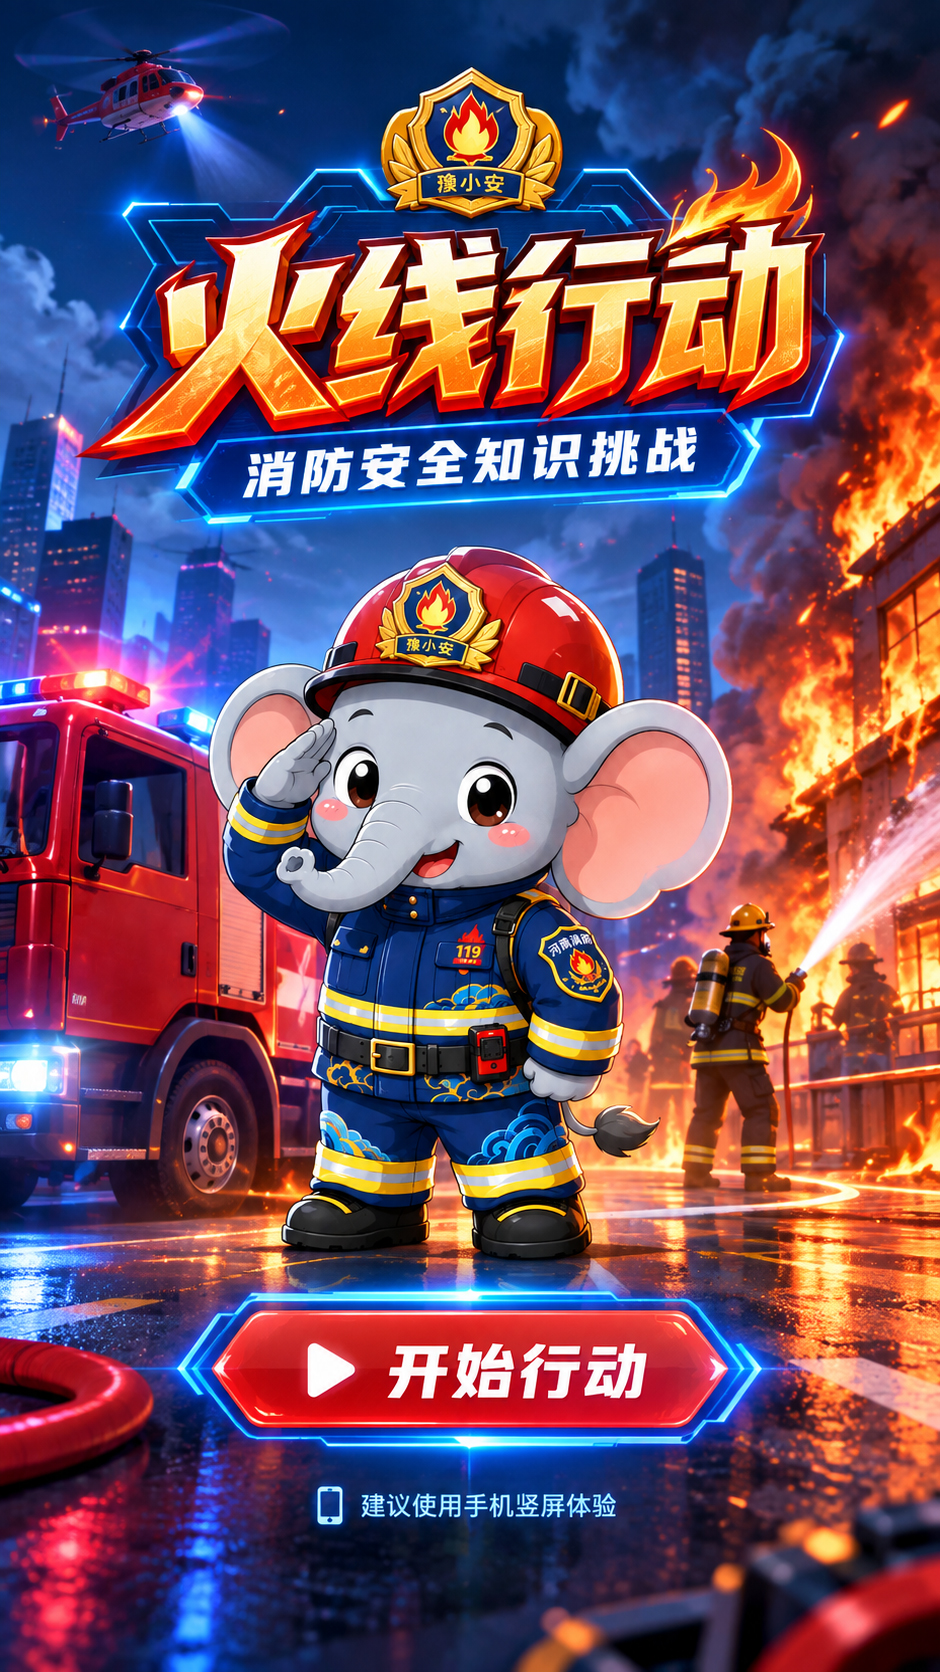
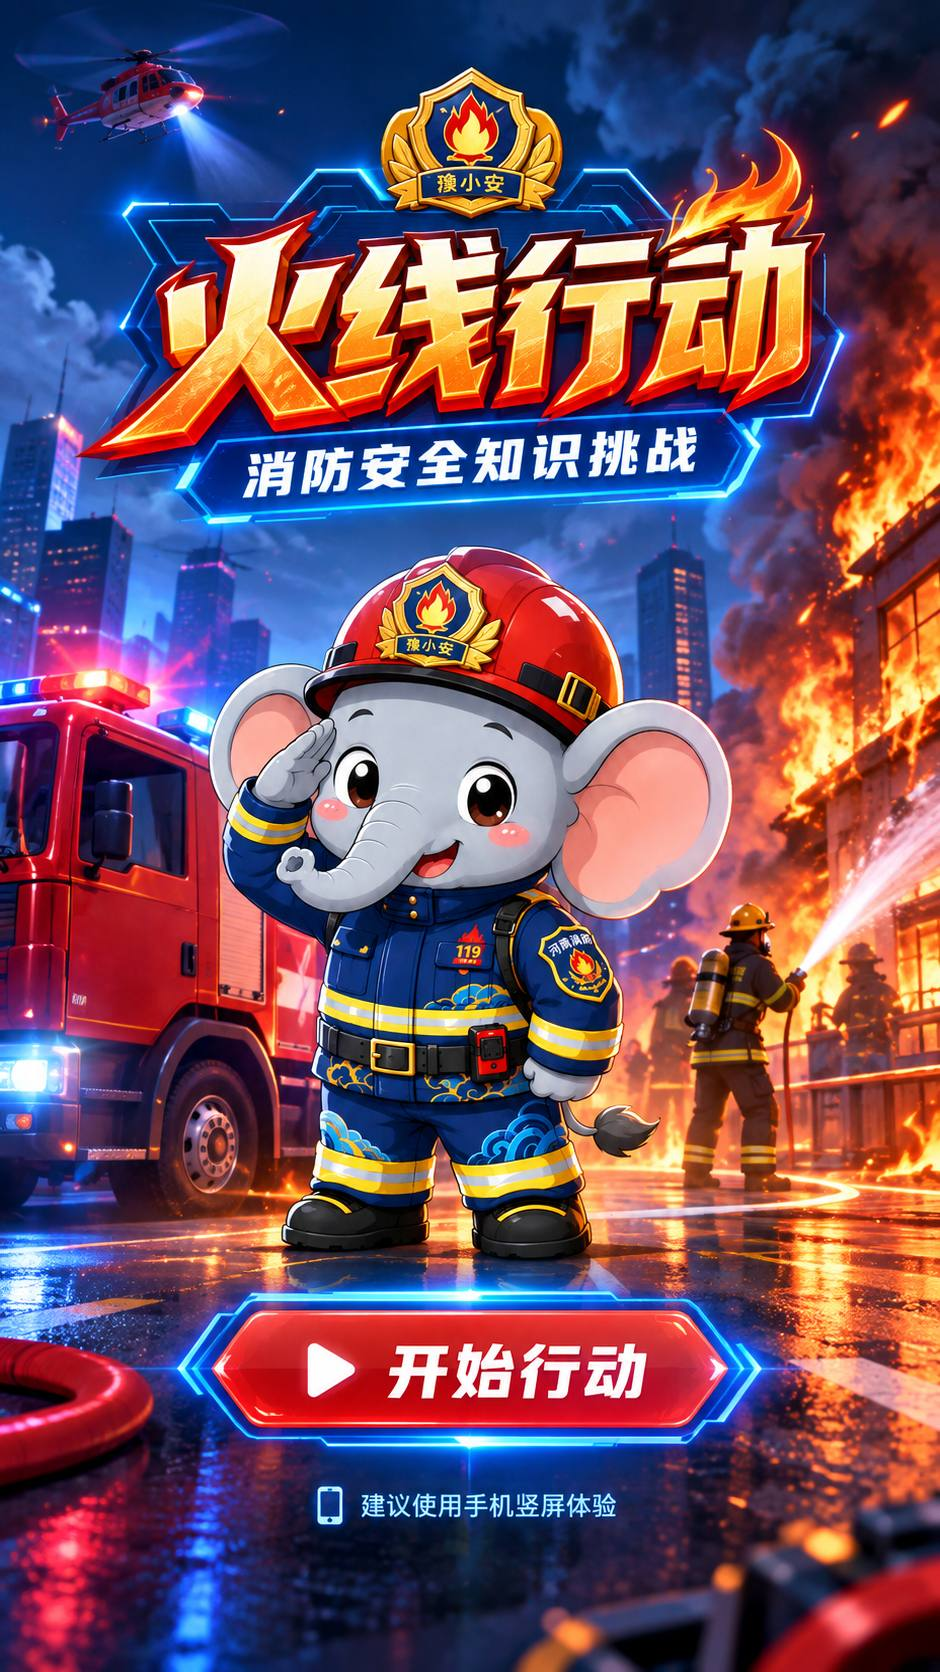
Fix Pages asset paths, compress images, remove duplicate homebg bundle.

diff --git a/src/views/HomeView.vue b/src/views/HomeView.vue
@@ -4,6 +4,7 @@ import { nextTick, onMounted, onUnmounted, ref } from 'vue'
 import { useRouter } from 'vue-router'
 import GameTransition from '@/components/GameTransition.vue'
 import { useGameStore } from '@/stores/game'
+import { assetUrl } from '@/utils/assets'
 import { playTone } from '@/utils/sound'
 import { unlockBgmFromGesture } from '@/utils/bgm'
 
@@ -23,13 +24,13 @@ const HOTSPOTS = [
   },
 ]
 
-const EMBERS = Array.from({ length: 14 }, (_, i) => ({
+const EMBERS = Array.from({ length: 7 }, (_, i) => ({
   id: i,
-  left: 8 + ((i * 17) % 84),
-  delay: (i % 7) * 0.35,
-  duration: 4.5 + (i % 5) * 0.7,
-  size: 3 + (i % 4),
-  drift: (i % 2 === 0 ? 1 : -1) * (12 + (i % 5) * 4),
+  left: 10 + ((i * 13) % 80),
+  delay: (i % 5) * 0.45,
+  duration: 5 + (i % 4) * 0.8,
+  size: 3 + (i % 3),
+  drift: (i % 2 === 0 ? 1 : -1) * (10 + (i % 4) * 3),
 }))
 
 const router = useRouter()
@@ -38,17 +39,27 @@ const stageRef = ref<HTMLElement | null>(null)
 const transitioning = ref(false)
 const pressedId = ref<string | null>(null)
 const ready = ref(false)
+const homeBgWebp = assetUrl('homebg.webp')
+const homeBgJpg = assetUrl('homebg.jpg')
 let enterTween: gsap.core.Timeline | null = null
 
 onMounted(async () => {
   await nextTick()
   ready.value = true
+  // 预取第一关场景图，进入关卡时更快
+  ;['images/hazard-home.webp', 'images/hazard-home.jpg'].forEach((p) => {
+    const link = document.createElement('link')
+    link.rel = 'prefetch'
+    link.as = 'image'
+    link.href = assetUrl(p)
+    document.head.appendChild(link)
+  })
   if (!stageRef.value) return
   enterTween = gsap.timeline({ defaults: { ease: 'power2.out' } })
   enterTween
-    .from(stageRef.value, { opacity: 0, scale: 1.04, duration: 0.85 })
-    .from('.fx-layer', { opacity: 0, duration: 0.6 }, '-=0.35')
-    .from('.hotspot', { opacity: 0, scale: 0.92, duration: 0.45 }, '-=0.25')
+    .from(stageRef.value, { opacity: 0, scale: 1.03, duration: 0.55 })
+    .from('.fx-layer', { opacity: 0, duration: 0.4 }, '-=0.25')
+    .from('.hotspot', { opacity: 0, scale: 0.95, duration: 0.35 }, '-=0.2')
 })
 
 onUnmounted(() => {
@@ -81,7 +92,10 @@ function goLevel() {
 <template>
   <div class="home" :class="{ ready }">
     <div ref="stageRef" class="stage">
-      <img class="bg" src="/homebg.jpg" alt="火线行动：消防安全知识挑战" draggable="false" />
+      <picture class="bg-wrap">
+        <source :srcset="homeBgWebp" type="image/webp" />
+        <img class="bg" :src="homeBgJpg" alt="火线行动：消防安全知识挑战" draggable="false" decoding="async" fetchpriority="high" />
+      </picture>
 
       <div class="fx-layer" aria-hidden="true">
         <div class="siren siren-red" />
@@ -162,13 +176,16 @@ function goLevel() {
   max-height: 100dvh;
   max-height: 100svh;
   transform-origin: center center;
-  will-change: transform, opacity;
 }
 
+.bg-wrap,
 .bg {
   display: block;
   width: 100%;
   height: 100%;
+}
+
+.bg {
   object-fit: fill;
   user-select: none;
   pointer-events: none;
@@ -189,19 +206,18 @@ function goLevel() {
   width: 42%;
   height: 100%;
   opacity: 0;
-  mix-blend-mode: screen;
 }
 
 .siren-red {
   left: 0;
-  background: radial-gradient(ellipse at 20% 45%, rgba(255, 48, 48, 0.35), transparent 62%);
-  animation: sirenFlash 1.6s ease-in-out infinite;
+  background: radial-gradient(ellipse at 20% 45%, rgba(255, 48, 48, 0.28), transparent 62%);
+  animation: sirenFlash 2s ease-in-out infinite;
 }
 
 .siren-blue {
   right: 0;
-  background: radial-gradient(ellipse at 80% 48%, rgba(48, 140, 255, 0.32), transparent 62%);
-  animation: sirenFlash 1.6s ease-in-out infinite 0.8s;
+  background: radial-gradient(ellipse at 80% 48%, rgba(48, 140, 255, 0.24), transparent 62%);
+  animation: sirenFlash 2s ease-in-out infinite 1s;
 }
 
 .scan {
@@ -212,12 +228,11 @@ function goLevel() {
   background: linear-gradient(
     180deg,
     transparent,
-    rgba(120, 200, 255, 0.08),
-    rgba(255, 255, 255, 0.05),
+    rgba(120, 200, 255, 0.06),
+    rgba(255, 255, 255, 0.04),
     transparent
   );
-  animation: scanMove 5.5s linear infinite;
-  mix-blend-mode: screen;
+  animation: scanMove 6.5s linear infinite;
 }
 
 .heat-shimmer {
@@ -226,10 +241,8 @@ function goLevel() {
   top: 28%;
   width: 36%;
   height: 34%;
-  background: radial-gradient(circle, rgba(255, 120, 40, 0.14), transparent 70%);
-  filter: blur(8px);
-  animation: heatPulse 2.4s ease-in-out infinite;
-  mix-blend-mode: screen;
+  background: radial-gradient(circle, rgba(255, 120, 40, 0.12), transparent 70%);
+  animation: heatPulse 2.8s ease-in-out infinite;
 }
 
 .ember {

diff --git a/src/views/HazardView.vue b/src/views/HazardView.vue
@@ -9,6 +9,7 @@ import GameTimer from '@/components/GameTimer.vue'
 import ScorePopup from '@/components/ScorePopup.vue'
 import { HAZARDS, type HazardItem } from '@/data/hazards'
 import { useGameStore } from '@/stores/game'
+import { assetUrl } from '@/utils/assets'
 import { playTone } from '@/utils/sound'
 
 const IDLE_HINT_MS = 5000
@@ -28,6 +29,8 @@ let idleTimer: number | null = null
 
 const foundCount = computed(() => found.value.size)
 const foundList = computed(() => HAZARDS.filter((h) => found.value.has(h.id)))
+const hazardWebp = assetUrl('images/hazard-home.webp')
+const hazardJpg = assetUrl('images/hazard-home.jpg')
 
 function clearIdleTimer() {
   if (idleTimer != null) {
@@ -132,12 +135,16 @@ function hotspotStyle(h: HazardItem) {
     <p class="mission">观察家庭场景，点击图中的消防安全隐患</p>
 
     <div class="scene scene-panel" @click="onMiss">
-      <img
-        class="scene-bg"
-        src="/images/hazard-home.png"
-        alt="家庭场景中的消防隐患"
-        draggable="false"
-      />
+      <picture class="scene-bg-wrap">
+        <source :srcset="hazardWebp" type="image/webp" />
+        <img
+          class="scene-bg"
+          :src="hazardJpg"
+          alt="家庭场景中的消防隐患"
+          draggable="false"
+          decoding="async"
+        />
+      </picture>
       <div class="scene-veil" />
 
       <div class="zone living">客厅</div>
@@ -221,11 +228,15 @@ function hotspotStyle(h: HazardItem) {
   background: #1a2430;
 }
 
+.scene-bg-wrap,
 .scene-bg {
   position: absolute;
   inset: 0;
   width: 100%;
   height: 100%;
+}
+
+.scene-bg {
   object-fit: cover;
   object-position: center;
   pointer-events: none;

diff --git a/src/components/GameModal.vue b/src/components/GameModal.vue
@@ -1,4 +1,6 @@
 <script setup lang="ts">
+import { assetUrl } from '@/utils/assets'
+
 withDefaults(
   defineProps<{
     title?: string
@@ -10,18 +12,17 @@ withDefaults(
 )
 
 const emit = defineEmits<{ close: [] }>()
+const mascotWebp = assetUrl('images/mascot.webp')
+const mascotPng = assetUrl('images/mascot.png')
 </script>
 
 <template>
   <div class="modal-mask" @click.self="closable && emit('close')">
     <div class="modal-panel scene-panel" :class="{ 'has-mascot': mascot }">
-      <img
-        v-if="mascot"
-        class="mascot"
-        src="/images/mascot.png"
-        alt="豫小安"
-        draggable="false"
-      />
+      <picture v-if="mascot" class="mascot">
+        <source :srcset="mascotWebp" type="image/webp" />
+        <img :src="mascotPng" alt="豫小安" draggable="false" decoding="async" loading="lazy" />
+      </picture>
       <button
         v-if="closable"
         class="close-btn"
@@ -74,10 +75,16 @@ const emit = defineEmits<{ close: [] }>()
   transform: translateX(-50%);
   pointer-events: none;
   user-select: none;
-  -webkit-user-drag: none;
   filter: drop-shadow(0 8px 16px rgba(0, 0, 0, 0.4));
   z-index: 2;
   animation: mascotPop 0.45s cubic-bezier(0.22, 1.2, 0.36, 1) both;
+}
+
+.mascot img {
+  display: block;
+  width: 100%;
+  height: auto;
+  -webkit-user-drag: none;
 }
 
 .close-btn {

diff --git a/src/router/index.ts b/src/router/index.ts
@@ -3,8 +3,8 @@ import { createRouter, createWebHashHistory } from 'vue-router'
 const router = createRouter({
   history: createWebHashHistory(),
   routes: [
-    { path: '/', name: 'start', component: () => import('@/views/StartView.vue') },
-    { path: '/home', name: 'home', component: () => import('@/views/HomeView.vue') },
+    { path: '/', name: 'home', component: () => import('@/views/HomeView.vue') },
+    { path: '/home', redirect: '/' },
     { path: '/level/hazard', name: 'hazard', component: () => import('@/views/HazardView.vue') },
     { path: '/level/escape', name: 'escape', component: () => import('@/views/EscapeView.vue') },
     {

diff --git a/index.html b/index.html
@@ -11,6 +11,9 @@
     <meta name="apple-mobile-web-app-capable" content="yes" />
     <meta name="format-detection" content="telephone=no" />
     <title>火线行动：消防安全挑战</title>
+    <!-- 使用 public/ 下资源；勿放项目根目录同名大图，避免被 Vite 二次打包 -->
+    <link rel="preload" as="image" href="/homebg.webp" type="image/webp" />
+    <link rel="preload" as="image" href="/homebg.jpg" />
   </head>
   <body>
     <div id="app"></div>

diff --git a/src/utils/bgm.ts b/src/utils/bgm.ts
@@ -10,7 +10,7 @@ function getAudio() {
   if (!audio) {
     audio = new Audio(`${import.meta.env.BASE_URL}audio/bg.mp3`)
     audio.loop = true
-    audio.preload = 'auto'
+    audio.preload = 'metadata'
     audio.volume = BGM_VOLUME
     audio.setAttribute('playsinline', 'true')
     audio.setAttribute('webkit-playsinline', 'true')

diff --git a/src/utils/assets.ts b/src/utils/assets.ts
@@ -1,0 +1,5 @@
+/** 兼容 GitHub Pages 子路径（base: './'）的静态资源路径 */
+export function assetUrl(path: string) {
+  const base = import.meta.env.BASE_URL || './'
+  return `${base}${path.replace(/^\//, '')}`
+}
